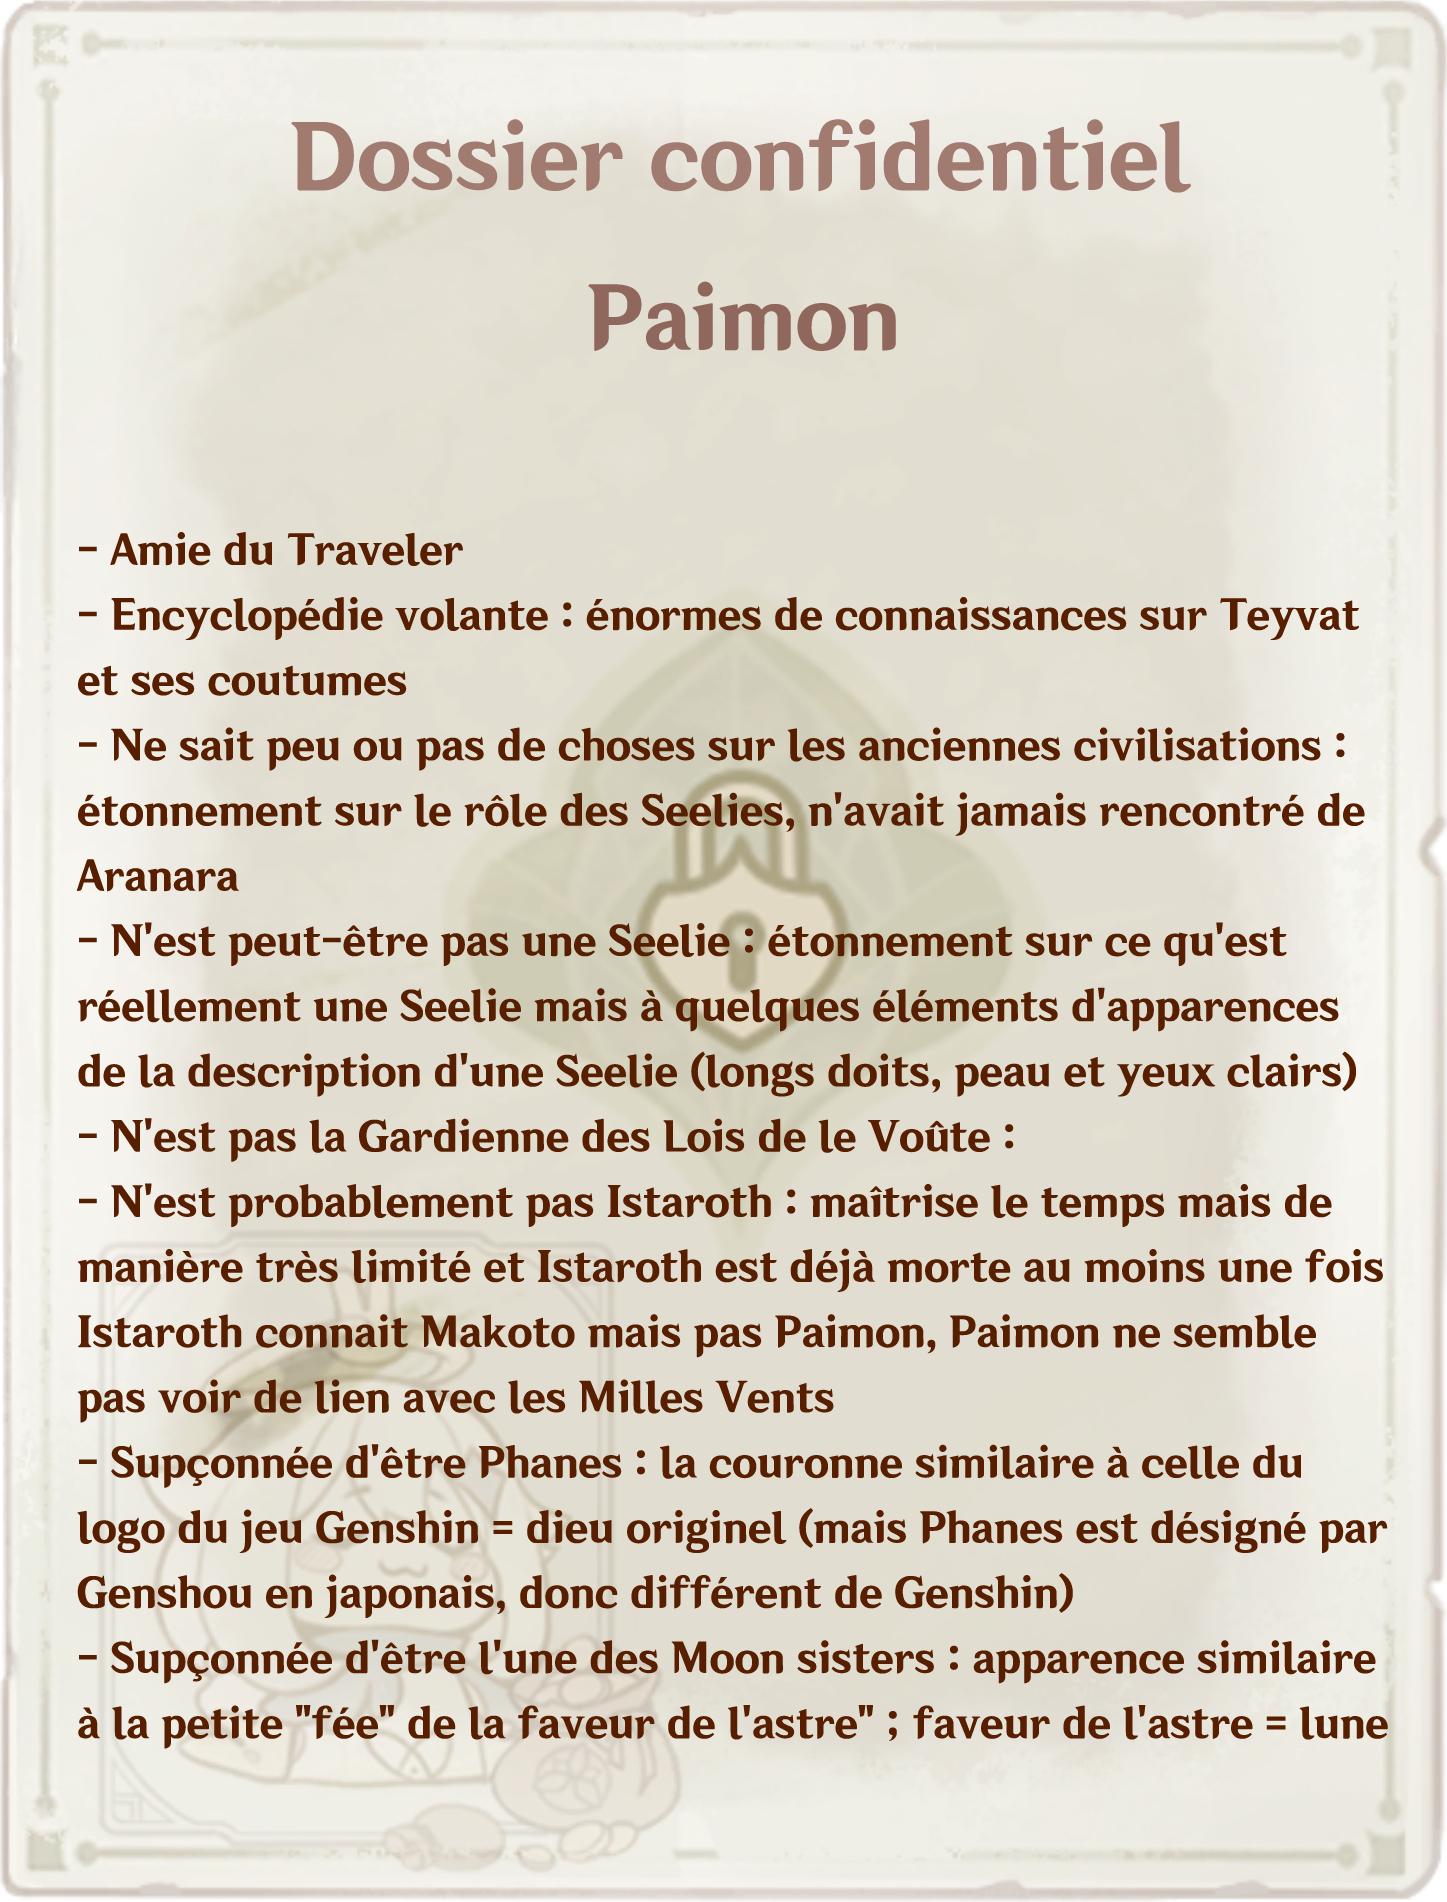
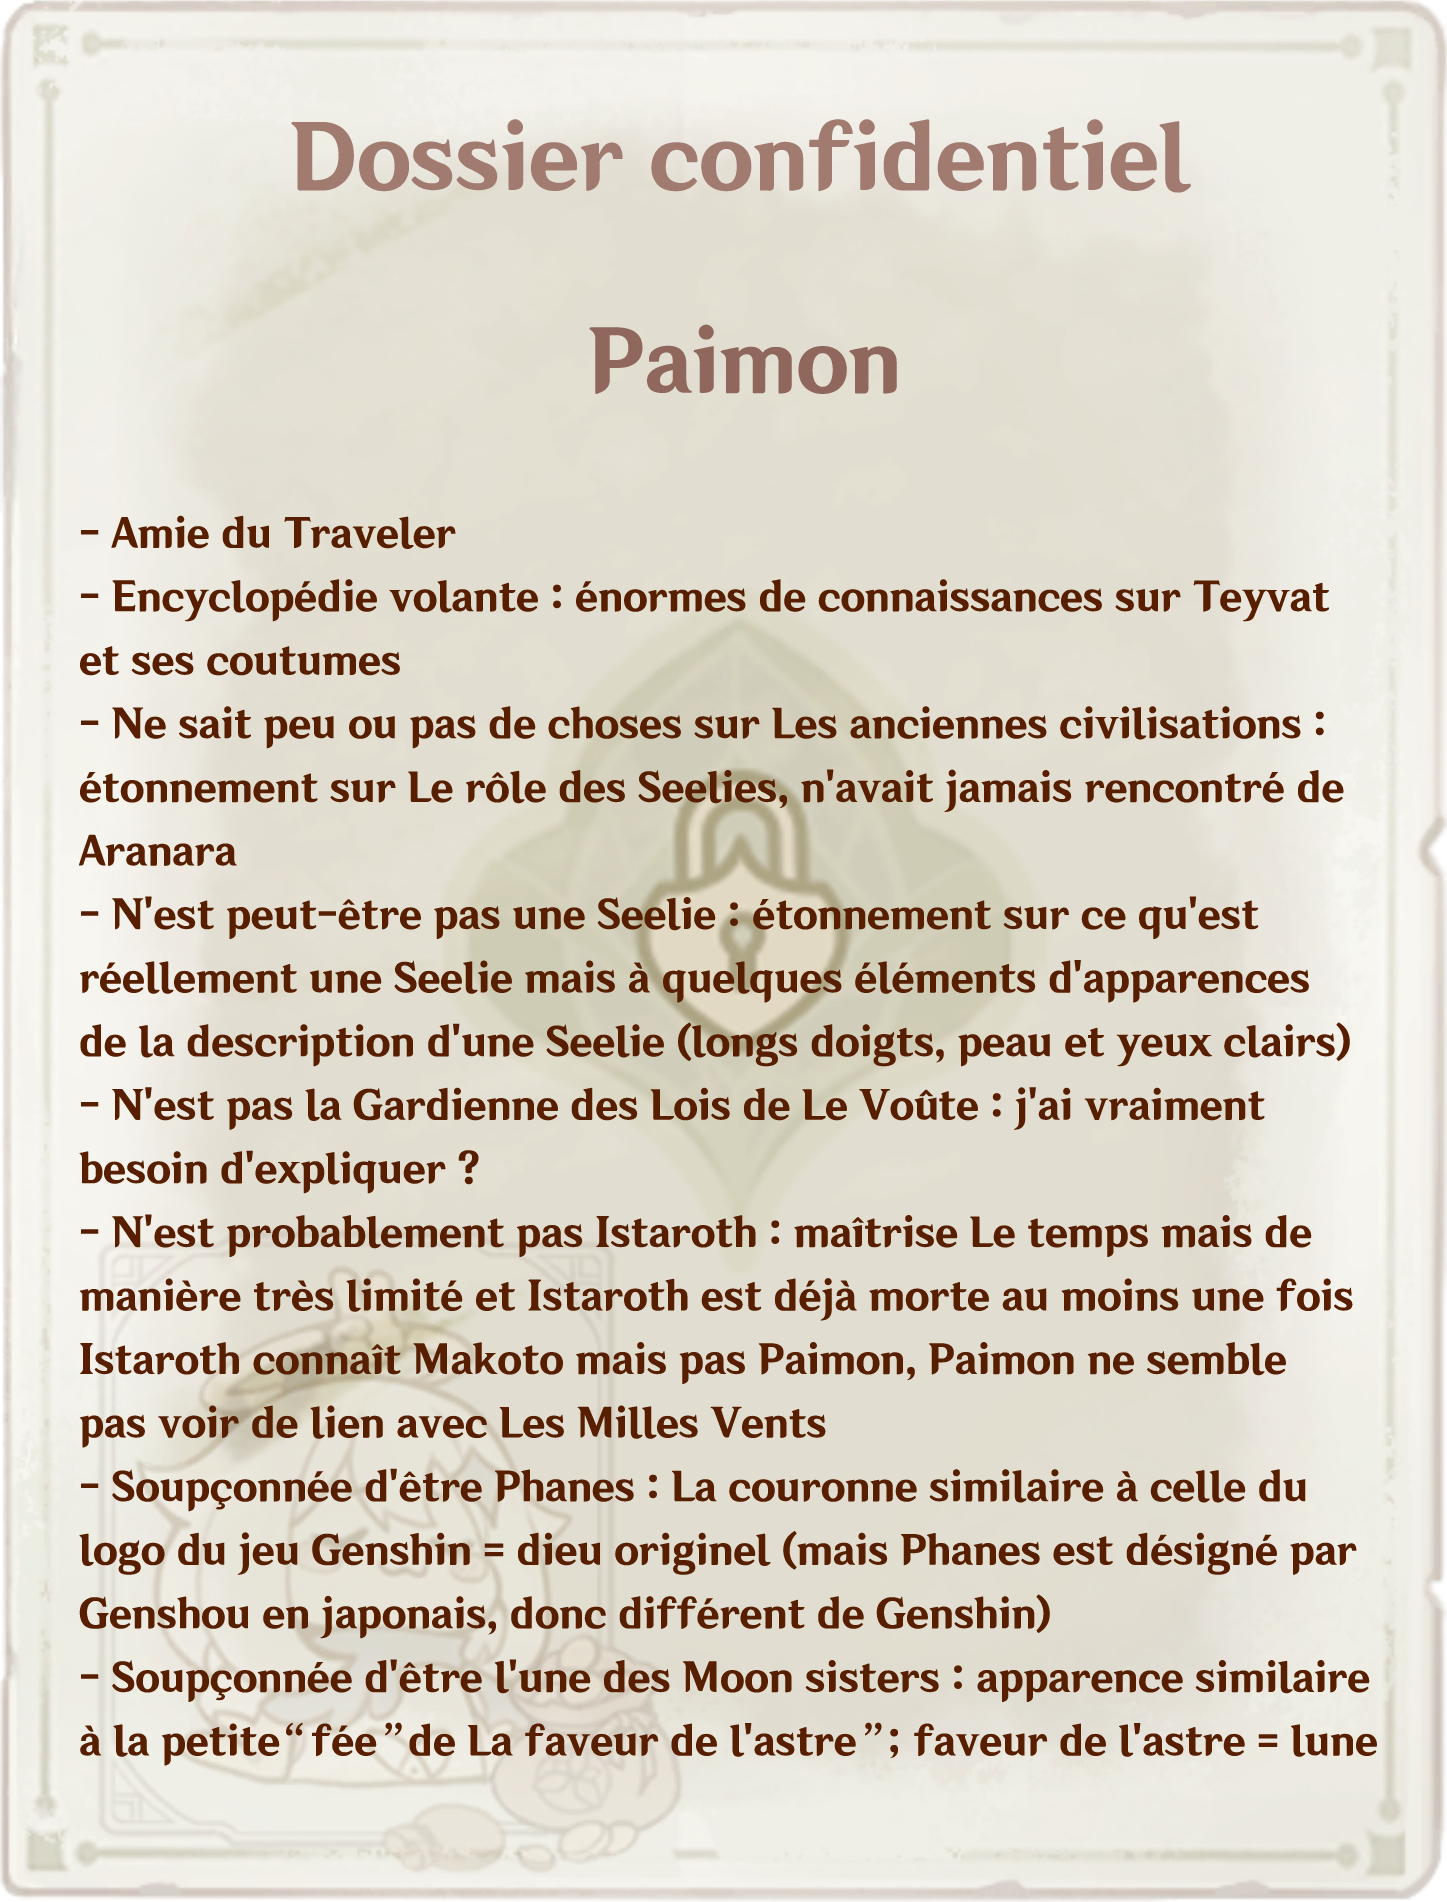
Correction de Paimon + un petit readme

Changed region(s): [[0.0311, 0.2792, 0.9641, 0.9306], [0.4043, 0.1241, 0.622, 0.2171]]

diff --git a/readme.md b/readme.md
@@ -1,0 +1,3 @@
+WOA UN BOT
+Programme par moi :)
+Dossiers par Amalia!
